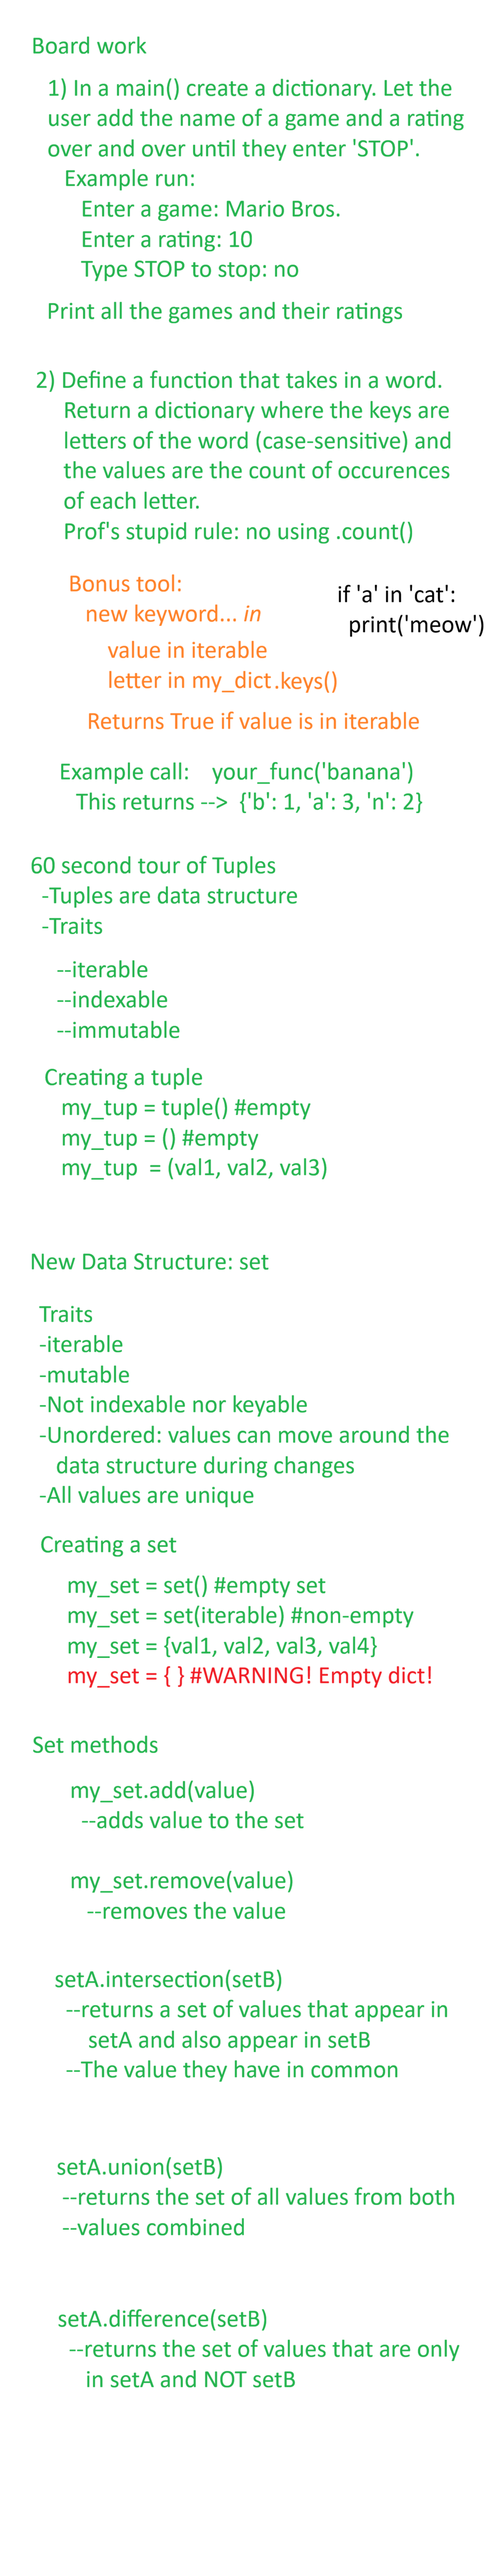
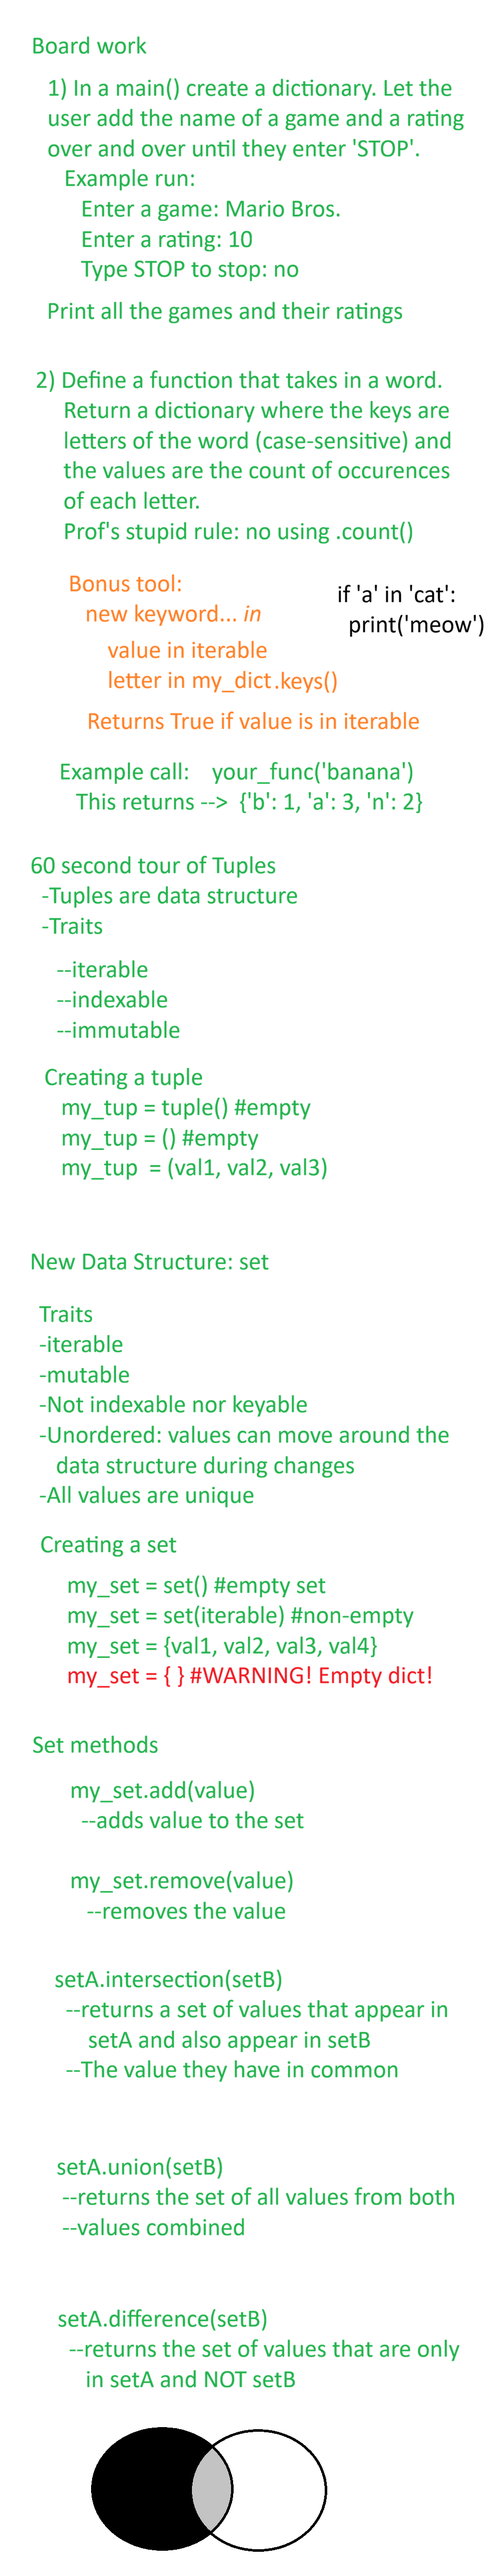
Add 168/268 notes

Changed region(s): [[0.1875, 0.936, 0.4688, 0.9984]]

diff --git a/eecs168/2026fall/TR/2026.11.12.random/randomdemo.py b/eecs168/2026fall/TR/2026.11.12.random/randomdemo.py
@@ -1,0 +1,18 @@
+import random
+
+def main():
+
+    roll_dice = random.randint(1, 6)
+    print(roll_dice)
+
+    menu = ['taco', 'pizza', 'salad', 'tuna', 'salmon']
+    print(random.choice(menu))
+    print(random.choices(menu, k=3))
+    print(random.sample(menu, k=3))
+
+    print(menu)
+    random.shuffle(menu)
+    print(menu)
+    
+
+main()

diff --git a/eecs168/2026fall/TR/2026.11.10.dict-tups-sets/setdemo.py b/eecs168/2026fall/TR/2026.11.10.dict-tups-sets/setdemo.py
@@ -10,3 +10,9 @@ print(my_letters)
 
 your_letters = set('pizza')
 print(my_letters.intersection(your_letters))
+
+
+words = ['bat', 'cat', 'bat', 'hat', 'mat', 'cat']
+
+unique_words = set(words)
+print(unique_words)

diff --git a/eecs168/2026fall/TR/2026.11.12.random/classes/main.py b/eecs168/2026fall/TR/2026.11.12.random/classes/main.py
@@ -1,0 +1,14 @@
+#main.py
+
+from triangle import Triangle
+
+def main():
+    my_tri = Triangle()
+
+    my_tri.base = 10
+    my_tri.height = 20
+
+    print(my_tri.base)
+    print(my_tri.height)
+
+main()

diff --git a/eecs168/2026fall/TR/2026.11.12.random/classes/triangle.py b/eecs168/2026fall/TR/2026.11.12.random/classes/triangle.py
@@ -1,0 +1,8 @@
+#triangle.py
+
+class Triangle:
+    def __init__(self):
+        self.base = 0
+        self.height = 0
+
+    
